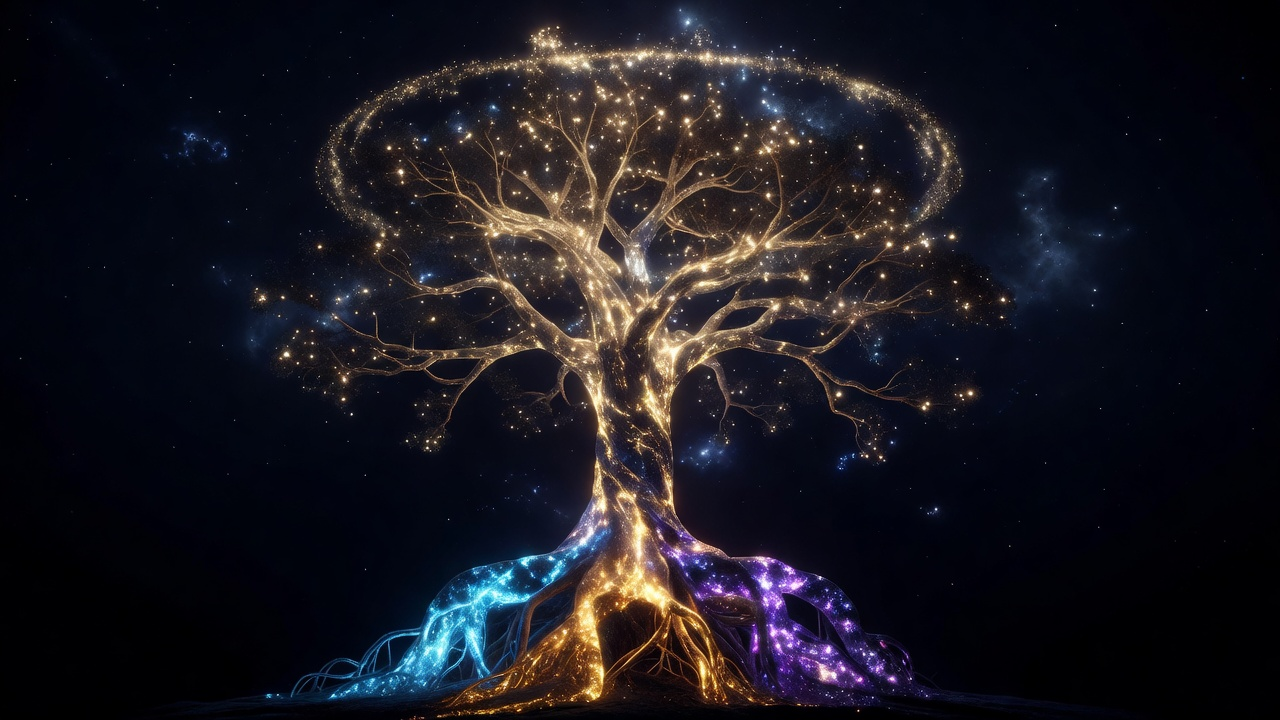
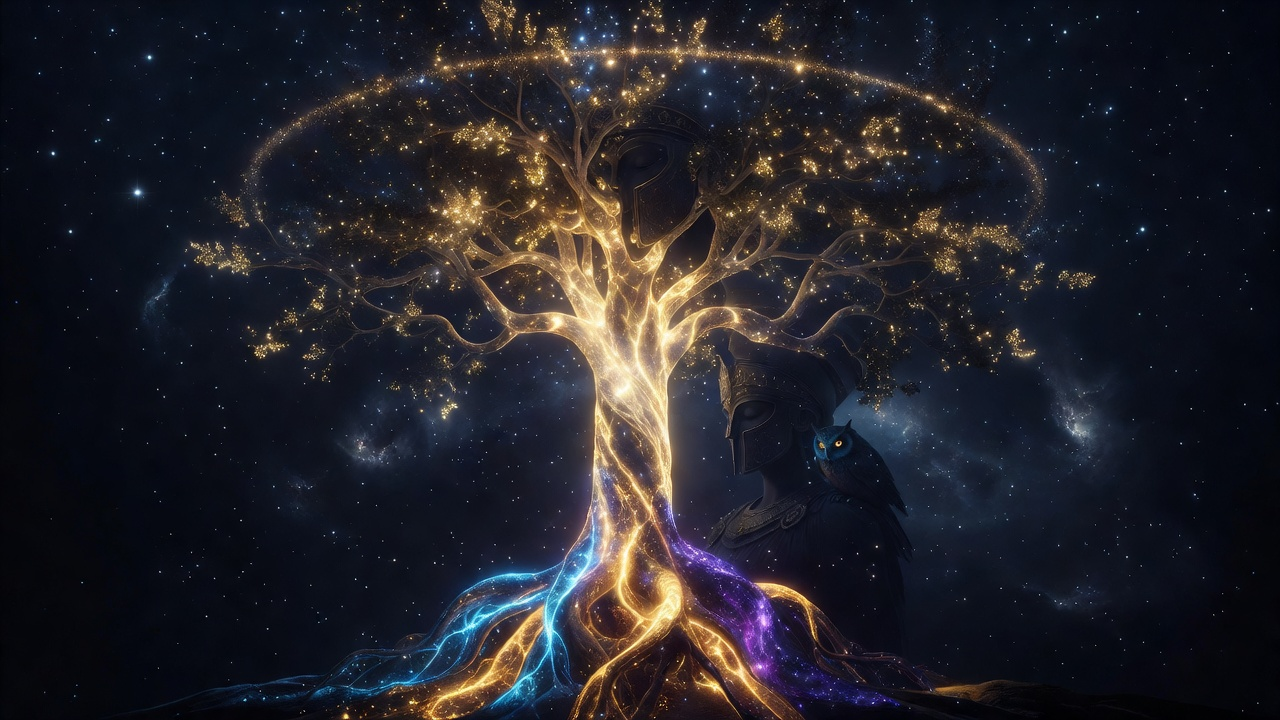
feat: update Yggdrasil image — add Athena silhouette + owl
New composition: 3 colored roots (cyan/amber/violet) feeding
golden trunk, with Athena and her owl as shadowy guardians
in the background. Creates visual continuity between:
- Phase 1 (Athena + bees) → hivemind
- Phase 2 (Yggdrasil + Athena + owl) → hivemind-cluster

diff --git a/README.md b/README.md
@@ -4,7 +4,7 @@
   <img width="800" alt="Yggdrasil — Three roots, one tree" src="hivemind_cluster/docs/yggdrasil.jpg" />
 </p>
 
-> **Yggdrasil, l'Arbre-Monde** — trois racines distinctes nourrissent un tronc unique (le Global). Les branches redistribuent la connaissance vers chaque cluster. Rien ne se perd, tout converge et se partage.
+> **Yggdrasil, l'Arbre-Monde** — trois racines distinctes (Audit, Fiscal, Juridique) nourrissent un tronc unique (le Global). Les branches redistribuent la connaissance vers chaque cluster. En arrière-plan, Athéna et sa chouette veillent — la sagesse de la Phase 1 protège l'intelligence collective de la Phase 2.
 
 Multi-cluster : N HiveMinds (Phase 1) nourrissent 1 Global.
 